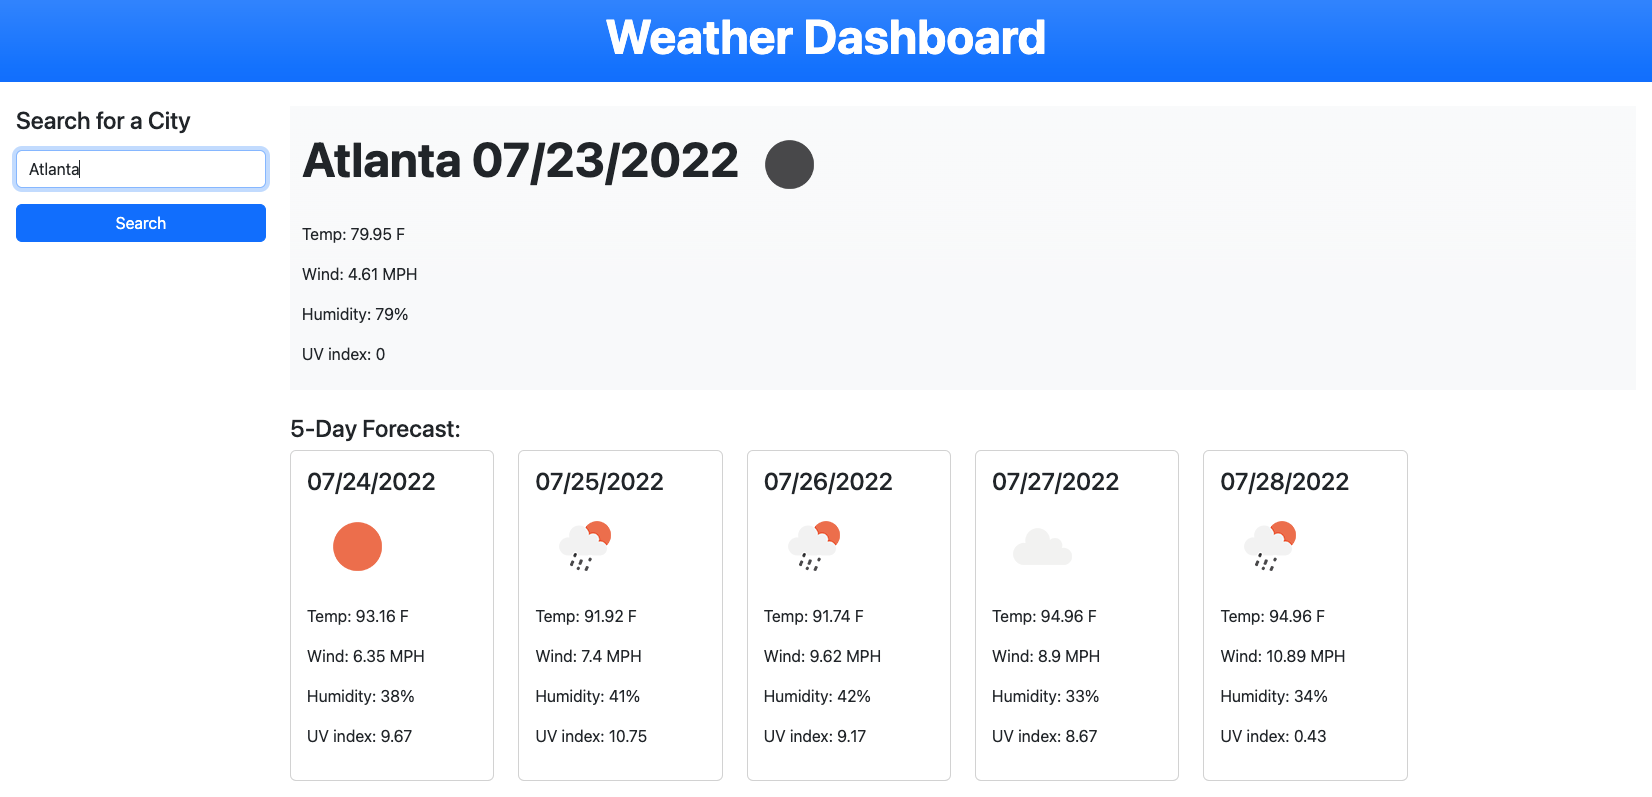
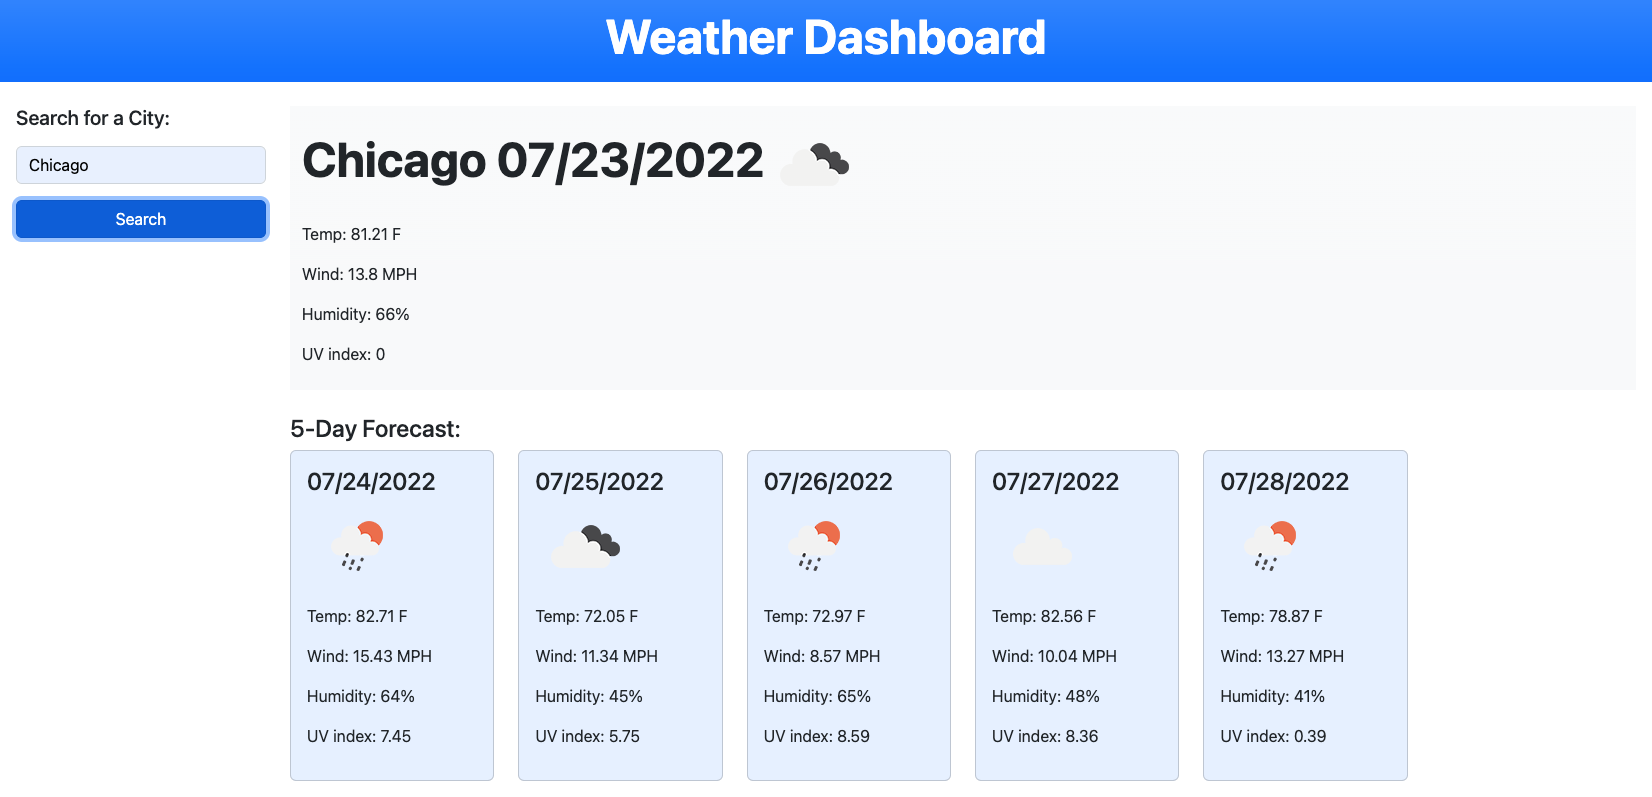
added background color to cards

diff --git a/index.html b/index.html
@@ -23,7 +23,7 @@
       <form id="city-form">
         <div class="mb-3 ">
           <label for="cityInput" class="form-label">
-            <h4>Search for a City</h4>
+            <h5>Search for a City:</h5>
           </label>
           <input class="form-control" id="city">
         </div>
@@ -36,7 +36,7 @@
     <div class="col-sm-10">
       <div class=" py-2 mb-4 bg-light bg-gradient ">
         <div class="container-fluid  ">
-          <h4 id="city-header" class="display-5 fw-bold">Atlanta</h4>
+          <h4 id="city-header" class="display-5 fw-bold"></h4>
           <p>Temp: <span id="temp"></span></p>
           <p>Wind: <span id="wind"></span></p>
           <p>Humidity: <span id="humidity"></span></p>
@@ -47,9 +47,9 @@
       <div class="row">
         <h4>5-Day Forecast:</h4>
         <div class="col-sm-2">
-          <div class="card">
+          <div class="card bg-primary bg-opacity-10 ">
             <div class="card-body">
-              <h4 id="city-header-c1" class="display-7">Day 1</h4>
+              <h4 id="city-header-c1" class="display-7 ">Day 1</h4>
               <p>Temp: <span id="temp-c1"></span></p>
               <p>Wind: <span id="wind-c1"></span></p>
               <p>Humidity: <span id="humidity-c1"></span></p>
@@ -58,7 +58,7 @@
           </div>
         </div>
         <div class="col-sm-2">
-          <div class="card">
+          <div class="card bg-primary bg-opacity-10">
             <div class="card-body">
               <h4 id="city-header-c2" class="display-7 ">Day 2</h4>
               <p>Temp: <span id="temp-c2"></span></p>
@@ -69,7 +69,7 @@
           </div>
         </div>
         <div class="col-sm-2">
-          <div class="card">
+          <div class="card bg-primary bg-opacity-10">
             <div class="card-body">
               <h4 id="city-header-c3" class="display-7 ">Day 3</h4>
               <p>Temp: <span id="temp-c3"></span></p>
@@ -80,7 +80,7 @@
           </div>
         </div>
         <div class="col-sm-2">
-          <div class="card">
+          <div class="card bg-primary bg-opacity-10">
             <div class="card-body">
               <h4 id="city-header-c4" class="display-7 ">Day 4</h4>
               <p>Temp: <span id="temp-c4"></span></p>
@@ -91,7 +91,7 @@
           </div>
         </div>
         <div class="col-sm-2">
-          <div class="card">
+          <div class="card bg-primary bg-opacity-10">
             <div class="card-body">
               <h4 id="city-header-c5" class="display-7">Day 5</h4>
               <p>Temp: <span id="temp-c5"></span></p>
